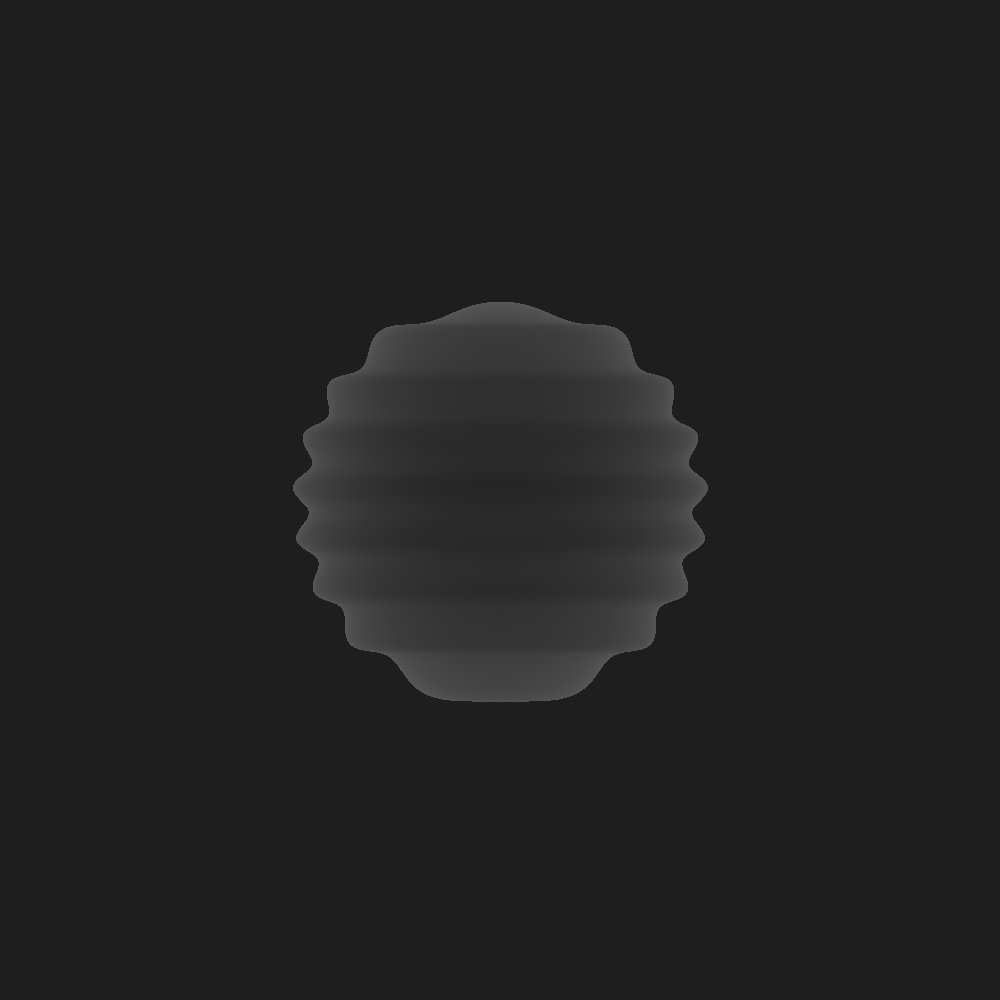
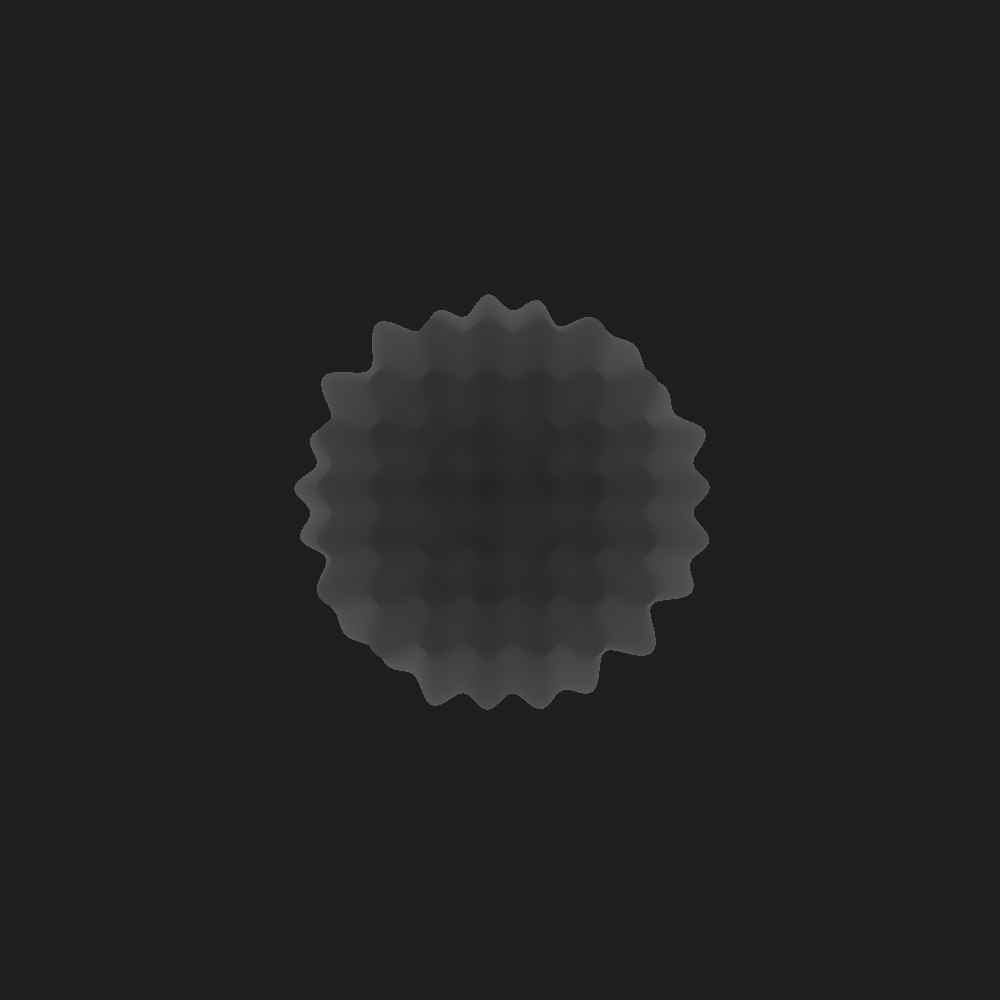
sync

diff --git a/pixie/src/picture/picture_builder.rs b/pixie/src/picture/picture_builder.rs
@@ -16,31 +16,31 @@ impl PictureBuilder {
         }
     }
 
-    fn bounds(mut self, x: usize, y: usize) -> Self {
+    pub fn bounds(mut self, x: usize, y: usize) -> Self {
         self.bounds = Some((x, y));
 
         self
     }
 
-    fn add_fn(mut self, function: fn(usize, usize) -> Colour) -> Self {
+    pub fn add_fn(mut self, function: fn(usize, usize) -> Colour) -> Self {
         self.function = Some(function);
 
         self
     }
 
-    fn from_fn(mut self, function: fn(usize, usize) -> Colour) -> Result<Picture, Error> {
+    pub fn from_fn(self, function: fn(usize, usize) -> Colour) -> Result<Picture, Error> {
         self.add_fn(function).calculate()
     }
 
-    fn from_fn_par(
-        mut self,
+    pub fn from_fn_par(
+        self,
         thread_count: usize,
         function: fn(usize, usize) -> Colour,
     ) -> Result<Picture, Error> {
         self.add_fn(function).calculate_par(thread_count)
     }
 
-    fn calculate(self) -> Result<Picture, Error> {
+    pub fn calculate(self) -> Result<Picture, Error> {
         match (self.bounds, self.function) {
             (None, _) => return Err(Error::NoBounds),
             (_, None) => return Err(Error::NoFunction),
@@ -61,19 +61,19 @@ impl PictureBuilder {
         }
     }
 
-    fn calculate_par(&self, thread_count: usize) -> Result<Picture, Error> {
+    pub fn calculate_par(&self, thread_count: usize) -> Result<Picture, Error> {
         match (self.bounds, self.function) {
             (None, _) => return Err(Error::NoBounds),
             (_, None) => return Err(Error::NoFunction),
             (Some(bounds), Some(function)) => {
-                let res;
+                let mut res = vec![];
 
                 std::thread::scope(|s| {
                     let length = std::cmp::max(1, bounds.0 / thread_count);
-                    let mut thread_vec: Vec<std::thread::ScopedJoinHandle<Vec<Colour>>>;
+                    let mut thread_vec: Vec<std::thread::ScopedJoinHandle<Vec<Colour>>> = vec![];
 
                     for start in (0..thread_count).step_by(length) {
-                        thread_vec.push(s.spawn(|| {
+                        thread_vec.push(s.spawn(move || {
                             let mut temp: Vec<Colour> = Vec::with_capacity(length * bounds.1);
 
                             for i in start..(start + length) {
@@ -88,18 +88,16 @@ impl PictureBuilder {
 
                     res = thread_vec
                         .into_iter()
-                        .map(|a| a.join())
-                        .collect::<Result<Vec<_>, _>>()
+                        .map(|a| a.join().unwrap())
+                        .flatten()
+                        .collect::<Vec<_>>()
                 });
 
-                match res {
-                    Ok(out) => Ok(Picture {
-                        bounds: bounds,
-                        pixels: out.into_iter().flatten().collect(),
-                    }),
-                    Err(_) => Err(Error::ThreadPaniced)
+                Ok(Picture{
+                    bounds: bounds,
+                    pixels: res
+                })
                 }
             }
-        }
     }
 }

diff --git a/pixie/src/picture/mod.rs b/pixie/src/picture/mod.rs
@@ -1,15 +1,30 @@
 mod picture_builder;
 
+use crate::error::Error;
 use super::colour::Colour;
-use picture_builder::PictureBuilder;
+pub use picture_builder::PictureBuilder;
 
-struct Picture {
+use image::save_buffer;
+use image::ColorType;
+
+pub struct Picture {
     bounds: (usize, usize),
     pixels: Vec<Colour>,
 }
 
 impl Picture {
-    fn new() -> PictureBuilder {
+    pub fn new() -> PictureBuilder {
         PictureBuilder::new()
+    }
+
+    pub fn save(self: Self, path: String) -> Result<Self, Error> {
+        let buf = self.pixels.iter().map(|x| x.to_vec()).flatten().collect::<Vec<_>>();
+
+        let res = save_buffer(path, &buf, self.bounds.0 as u32, self.bounds.1 as u32, ColorType::Rgb8);
+
+        match res {
+            Ok(_) => Ok(self),
+            Err(_) => Err(Error::SaveFailed)
+        }   
     }
 }

diff --git a/black_parade/src/main.rs b/black_parade/src/main.rs
@@ -25,13 +25,13 @@ fn main() -> Result<(), String> {
             Sphere::new(
                 Vector::new(90., 0., 0.),
                 50.0,
-                |obj, pos| obj.dist(pos) + 2.*(obj.surf(pos).y/2.).sin() //+ 2.*(obj.surf(pos).z/2.).sin()
+                |obj, pos| obj.dist(pos) + 2.*(obj.surf(pos).y/2.).sin() + 2.*(obj.surf(pos).z/2.).sin()
             )
-        )/*,
+        ),/*
         Objects::Line(
             Line::new(
                 Vector::new(70.0, -30.0, 0.0),
-                Vector::new(100.0, 0.0, 20.0),
+                Vector::new(120.0, 10.0, 20.0),
                 30.0,
                 true
             )

diff --git a/pixie/src/colour/mod.rs b/pixie/src/colour/mod.rs
@@ -1,11 +1,22 @@
 mod g8;
 mod rgb;
 
-use g8::G8;
-use rgb::Rgb8;
+pub use g8::G8;
+pub use rgb::Rgb8;
+use super::colour::Colour::{Grey, Rgb};
+
 
 #[derive(Debug, Clone, Copy)]
 pub enum Colour {
     Grey(G8),
     Rgb(Rgb8),
+}
+
+impl Colour {
+    pub fn to_vec(self: Self) -> Vec<u8> {
+        match self{
+            Grey(x) => x.to_vec(),
+            Rgb(x) => x.to_vec()
+        }
+    }
 }

diff --git a/pixie/src/lib.rs b/pixie/src/lib.rs
@@ -2,6 +2,11 @@ mod colour;
 mod error;
 mod picture;
 
+mod prelude {
+    pub use crate::colour::{Colour, G8, Rgb8};
+    pub use crate::picture::{Picture};
+}
+
 #[cfg(test)]
 mod tests {
     #[test]

diff --git a/pixie/src/colour/rgb.rs b/pixie/src/colour/rgb.rs
@@ -4,3 +4,9 @@ pub struct Rgb8 {
     g: u8,
     b: u8,
 }
+
+impl Rgb8 {
+    pub fn to_vec(self: Self) -> Vec<u8> {
+        vec![self.r, self.g, self.b]
+    }
+}

diff --git a/pixie/src/colour/g8.rs b/pixie/src/colour/g8.rs
@@ -2,3 +2,9 @@
 pub struct G8 {
     value: u8,
 }
+
+impl G8 {
+    pub fn to_vec(self: Self) -> Vec<u8>{
+        vec![self.value]
+    }
+}

diff --git a/pixie/src/error/mod.rs b/pixie/src/error/mod.rs
@@ -1,5 +1,5 @@
 pub enum Error {
     NoBounds,
     NoFunction,
-    ThreadPaniced,
+    SaveFailed,
 }
